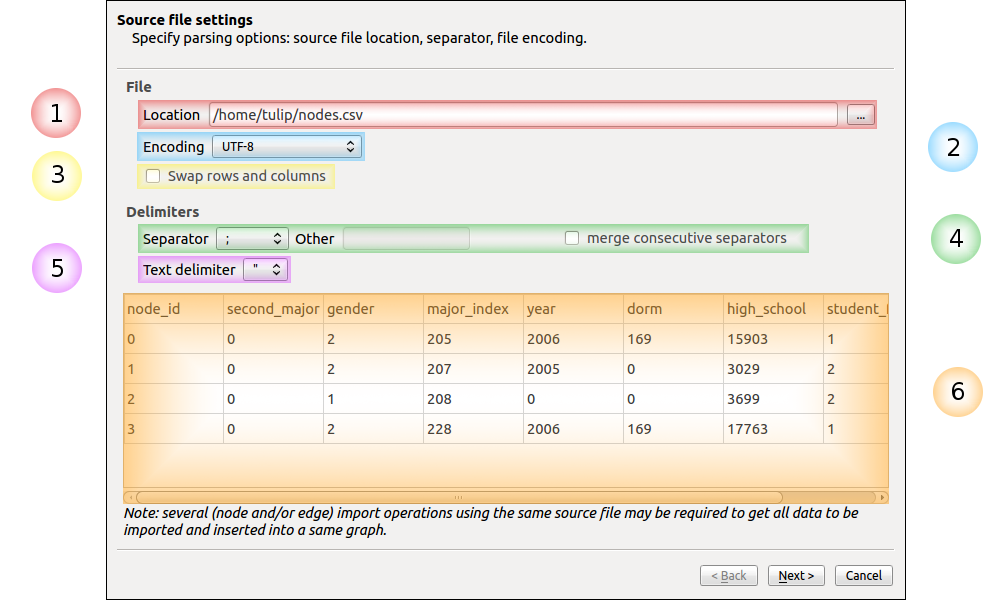
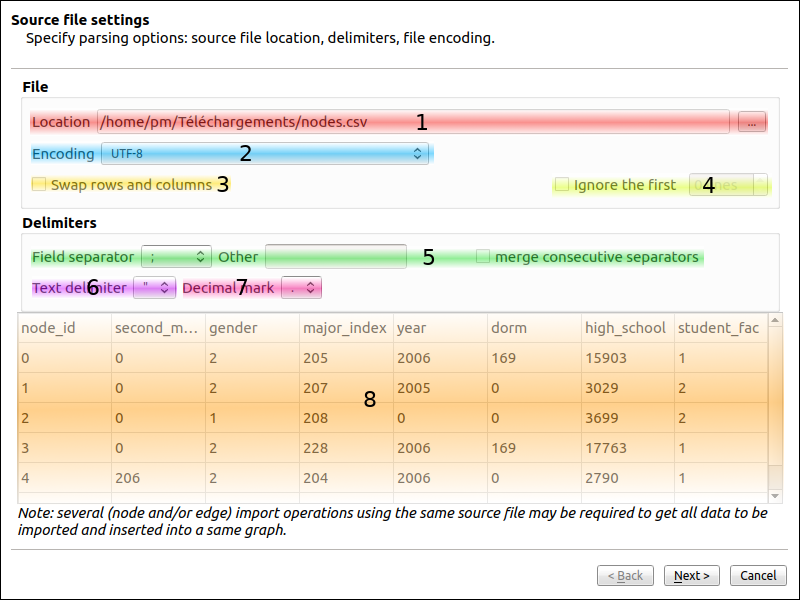
user doc "features" chapter update

diff --git a/doc/user/functions.rst b/doc/user/functions.rst
@@ -189,7 +189,7 @@ Import the nodes
 
 .. |icon_csv| image:: ../../plugins/perspective/GraphPerspective/resources/icons/32/spreadsheet.png
 
-Click on the |icon_csv| **CSV** icon to open the CSV Import Wizard (also available through the menu *Edit →	Import CSV*).
+Click on the |icon_csv| **CSV** button to open the CSV Import Wizard (also available through the menu *Edit →	Import CSV*).
 
 The import data process in Tulip is composed of three dialog panels with configuration options.
 
@@ -208,15 +208,19 @@ The purpose of each labeled component is explained below:
 
 2. The file encoding selection menu: this drop down menu provides a list of encoding schemes for the characters in the text file. We use a standard UTF-8 in this example as the files does not contain any special character.
 
-3. The data orientation: this check-box allows the user to invert rows and columns i.e to treat rows as columns and columns as rows in next steps.
+3. The data orientation: this check box allows the user to invert rows and columns i.e to treat rows as columns and columns as rows in next steps.
 
-4. The separator selector: this field allows the user to define the characters used to separate data value fields within each row. Select a separator in the list or input a custom separator. For the nodes file, the separator is ";". If a duplication of the separators is possible, you can check the "merge consecutive separators" box.
+4. If checked, a check box allows the user to specify the number of lines to be ignored at the beginning of the file.
 
-5. The text delimiter selector: this field allows the user to define the characters used as start and end delimiter for data value fields. Select a delimiter in the list or input a custom one and press the [Enter] key to validate your input. Separated value files often additionally define a character used to indicate the start and end of a data element which should be considered as a single text entry. This strategy allows the inclusion of text entries which include the value separator. 
+5. The separator selector: this field allows the user to define the characters used to separate data value fields within each row. Select a separator in the list or input a custom separator. For the nodes file, the separator is ";". If a duplication of the separators is possible, you can check the "merge consecutive separators" box.
+
+6. The text delimiter selector: this field allows the user to define the characters used as start and end delimiter for data value fields. Select a delimiter in the list or input a custom one and press the [Enter] key to validate your input. Separated value files often additionally define a character used to indicate the start and end of a data element which should be considered as a single text entry. This strategy allows the inclusion of text entries which include the value separator. 
 
   For example, a file, which is structured as a comma separated value file, could use the double quotation mark to delimit text values and would then be able to include text values such as: 	'Zoe, Mark, Sally'.
 
-6. The preview area : this area displays a preview of the file as it will be interpreted with the current settings.
+7. The character used as decimal mark when specifying decimal numbers: '.' or ','.
+
+8. The preview area : this area displays a preview of the file as it will be interpreted with the current settings.
 
 
 You can click on "Next" to access to the following panel.
